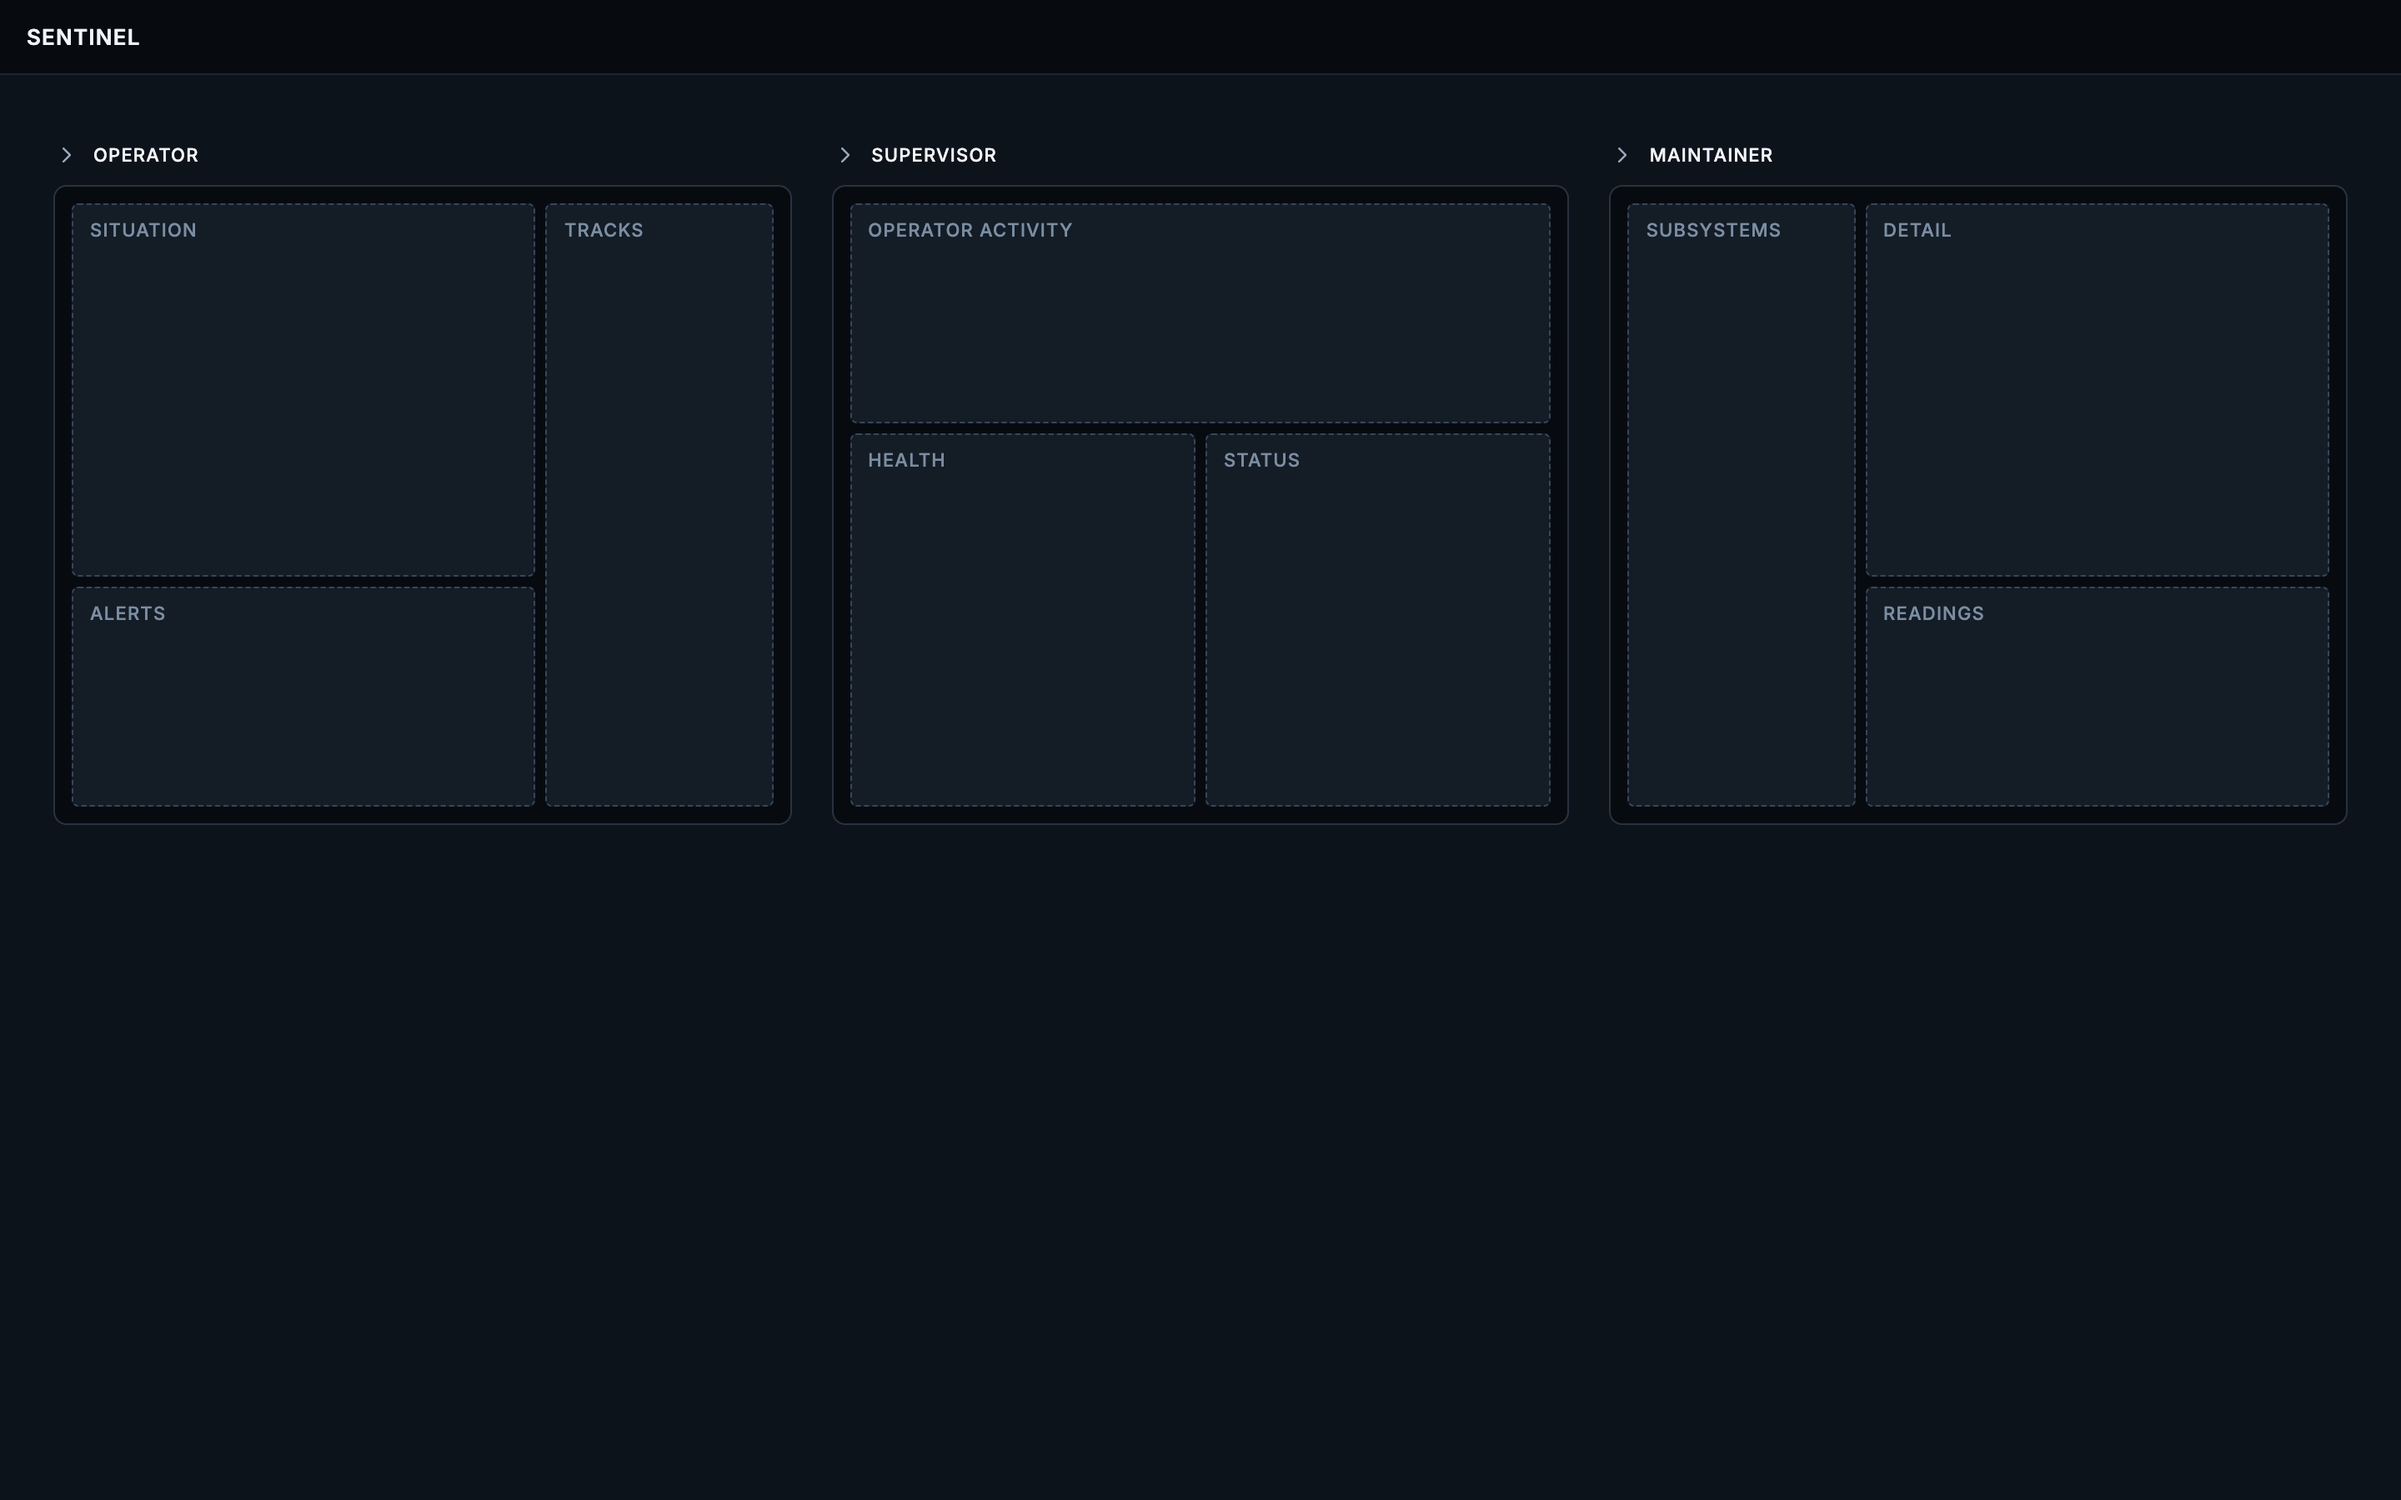
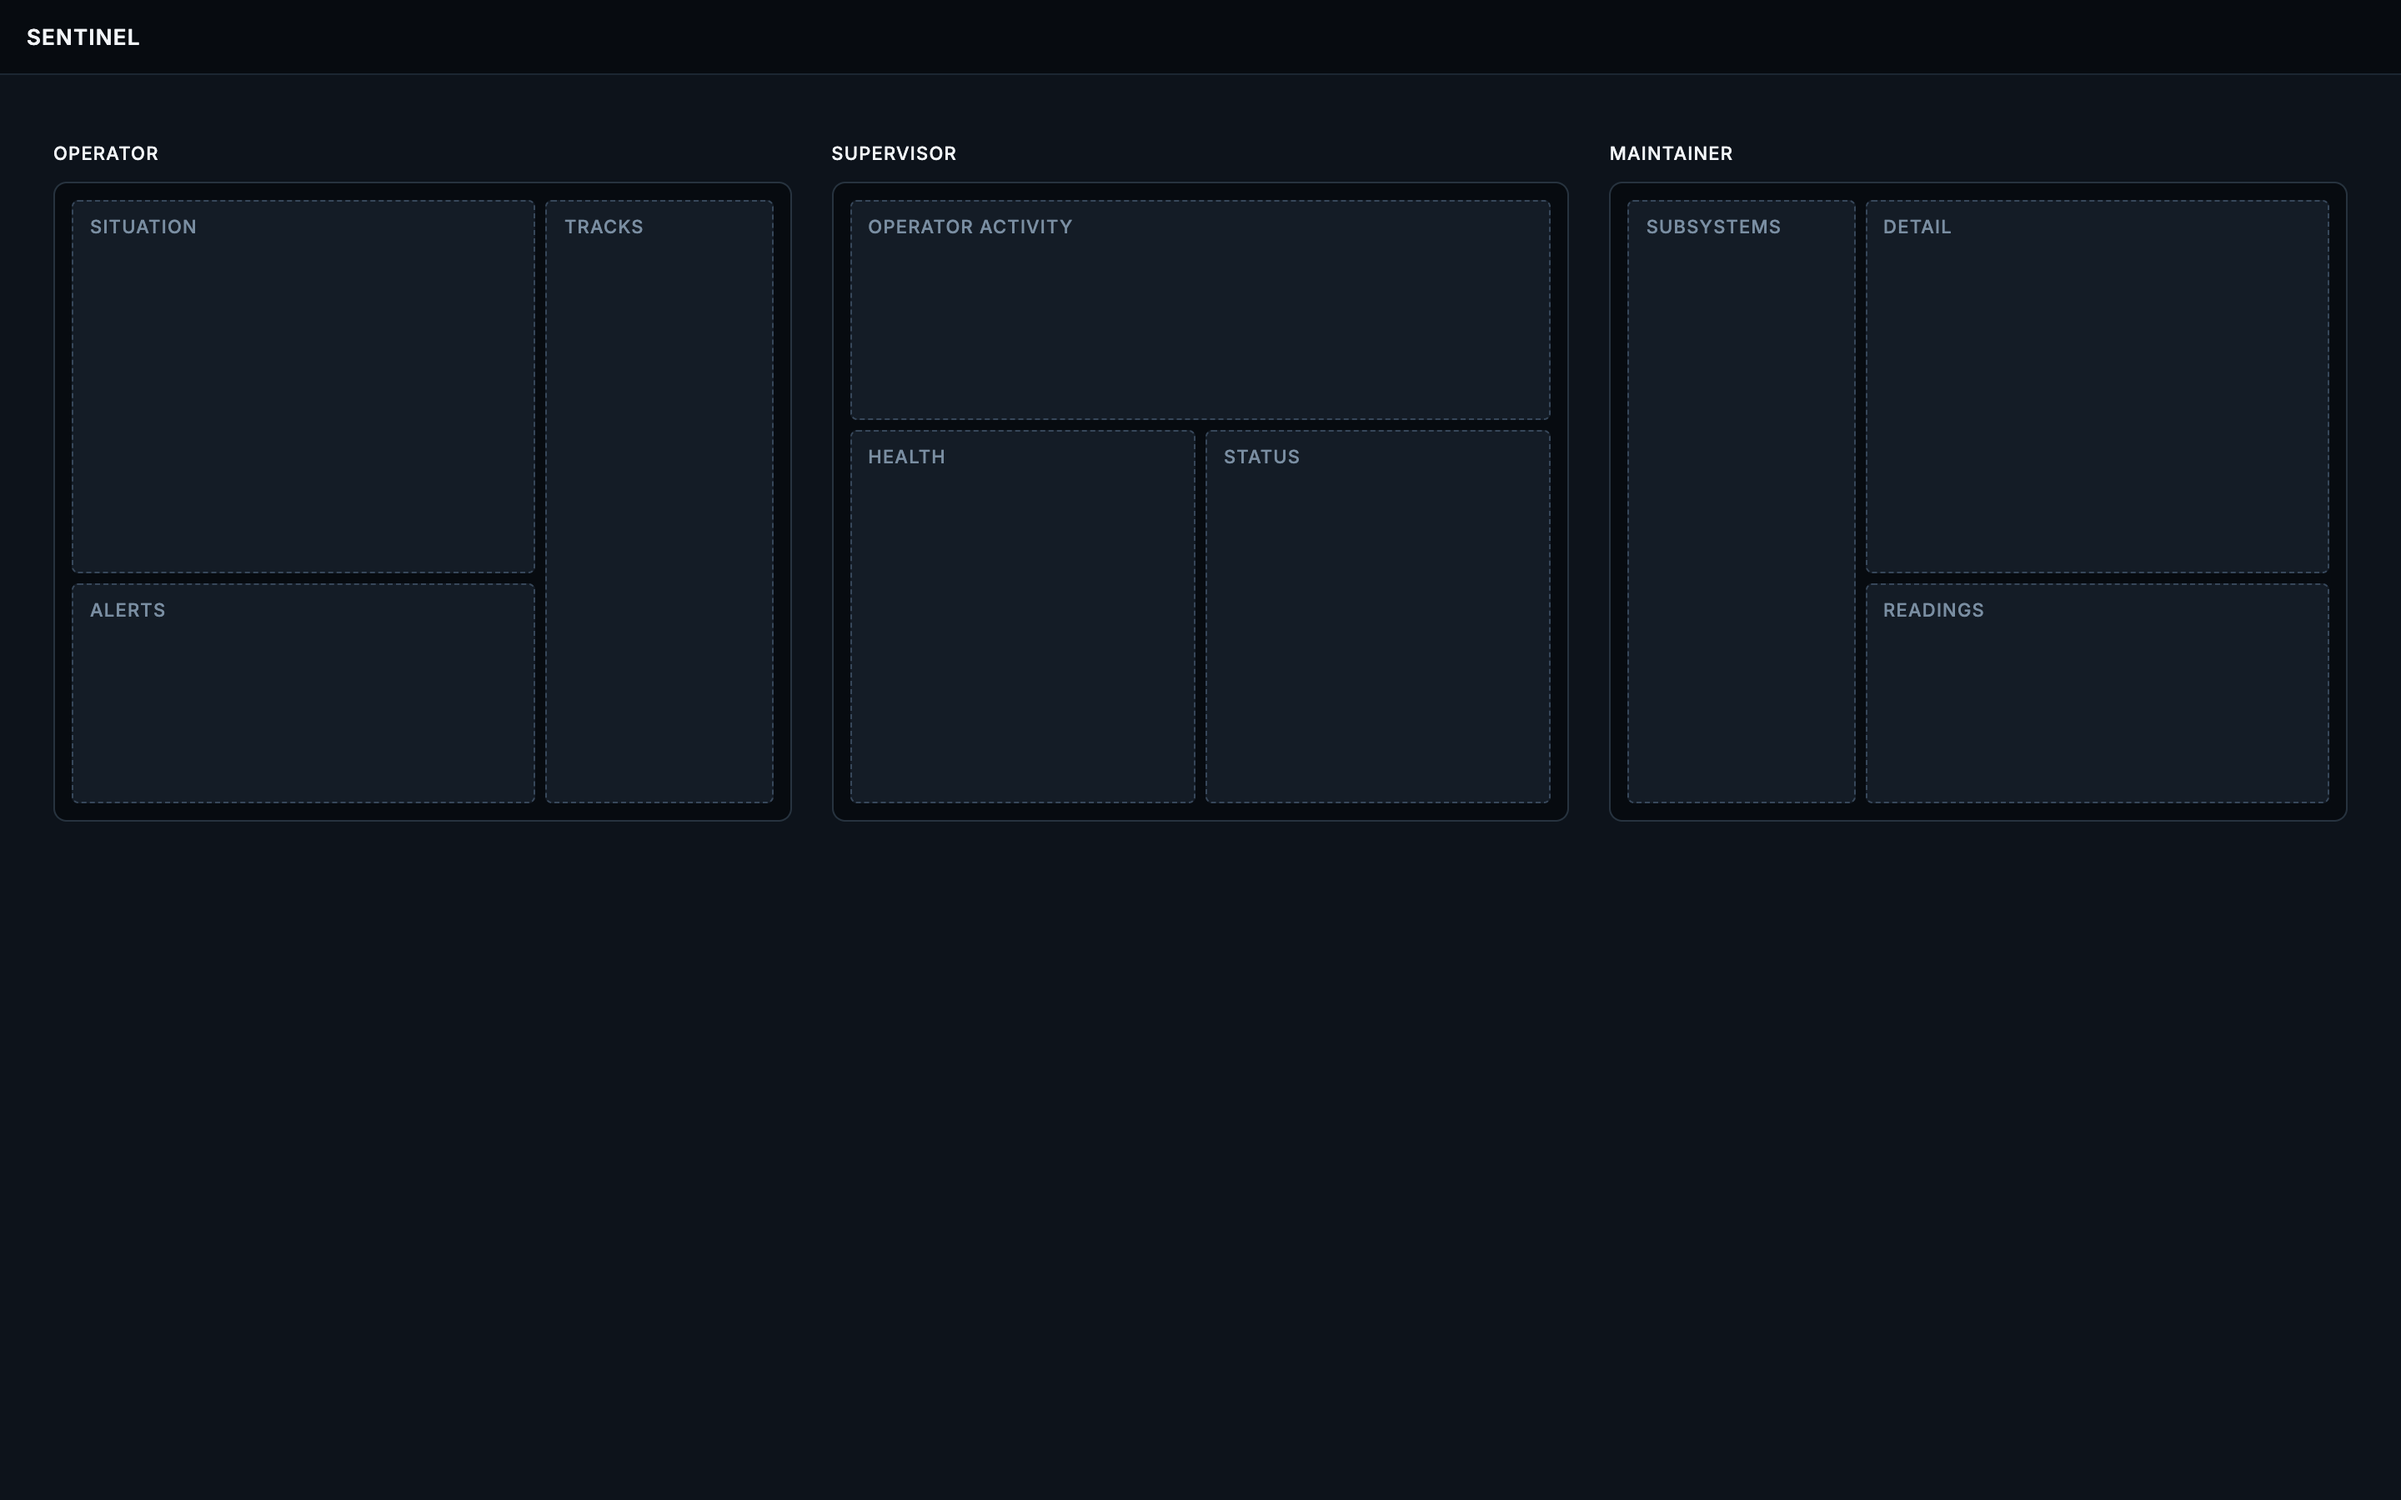
Remove chevrons from role layout figure

diff --git a/sentinel-handoff/reference/screens/Explored-RoleLogin.html b/sentinel-handoff/reference/screens/Explored-RoleLogin.html
@@ -16,15 +16,15 @@ a{color:#4cc9f0}a:hover{color:#f2f5f8}
 <main style="flex: 1; display: flex; flex-wrap: wrap; gap: 32px; align-items: flex-start; padding: 40px 32px; box-sizing: border-box;">
 <div style="flex: 1 1 0; min-width: 0; display: grid; grid-template-columns: repeat(auto-fit, minmax(240px, 1fr)); gap: 24px;">
 <section aria-label="Operator layout" style="display: flex; flex-direction: column; gap: 10px; min-width: 0;">
-<div style="display: flex; align-items: center; gap: 8px;"><svg width="16" height="16" viewBox="0 0 24 24" fill="none" stroke="#96a7b8" stroke-width="1.75" stroke-linecap="round" stroke-linejoin="round" aria-hidden="true"><path d="M9 6l6 6-6 6"></path></svg><span style="font: 500 11px/14px Inter, system-ui, -apple-system, 'Segoe UI', sans-serif; letter-spacing: 0.6px; text-transform: uppercase; color: #f2f5f8;">Operator</span></div>
+<div style="display: flex; align-items: center; gap: 8px;"><span style="font: 500 11px/14px Inter, system-ui, -apple-system, 'Segoe UI', sans-serif; letter-spacing: 0.6px; text-transform: uppercase; color: #f2f5f8;">Operator</span></div>
 <div style="display: grid; grid-template-columns: repeat(6, minmax(0, 1fr)); grid-template-rows: repeat(8, 40px); gap: 6px; padding: 10px; background: #070b10; border: 1px solid #27333f; border-radius: 8px;"><div style="grid-column: 1 / span 4; grid-row: 1 / span 5; display: flex; align-items: flex-start; padding: 8px 10px; background: #141c26; border: 1px dashed #37475a; border-radius: 4px;"><span style="font: 500 11px/14px Inter, system-ui, -apple-system, 'Segoe UI', sans-serif; letter-spacing: 0.6px; text-transform: uppercase; color: #7a8ea2;">Situation</span></div><div style="grid-column: 5 / span 2; grid-row: 1 / span 8; display: flex; align-items: flex-start; padding: 8px 10px; background: #141c26; border: 1px dashed #37475a; border-radius: 4px;"><span style="font: 500 11px/14px Inter, system-ui, -apple-system, 'Segoe UI', sans-serif; letter-spacing: 0.6px; text-transform: uppercase; color: #7a8ea2;">Tracks</span></div><div style="grid-column: 1 / span 4; grid-row: 6 / span 3; display: flex; align-items: flex-start; padding: 8px 10px; background: #141c26; border: 1px dashed #37475a; border-radius: 4px;"><span style="font: 500 11px/14px Inter, system-ui, -apple-system, 'Segoe UI', sans-serif; letter-spacing: 0.6px; text-transform: uppercase; color: #7a8ea2;">Alerts</span></div></div>
 </section>
 <section aria-label="Supervisor layout" style="display: flex; flex-direction: column; gap: 10px; min-width: 0;">
-<div style="display: flex; align-items: center; gap: 8px;"><svg width="16" height="16" viewBox="0 0 24 24" fill="none" stroke="#96a7b8" stroke-width="1.75" stroke-linecap="round" stroke-linejoin="round" aria-hidden="true"><path d="M9 6l6 6-6 6"></path></svg><span style="font: 500 11px/14px Inter, system-ui, -apple-system, 'Segoe UI', sans-serif; letter-spacing: 0.6px; text-transform: uppercase; color: #f2f5f8;">Supervisor</span></div>
+<div style="display: flex; align-items: center; gap: 8px;"><span style="font: 500 11px/14px Inter, system-ui, -apple-system, 'Segoe UI', sans-serif; letter-spacing: 0.6px; text-transform: uppercase; color: #f2f5f8;">Supervisor</span></div>
 <div style="display: grid; grid-template-columns: repeat(6, minmax(0, 1fr)); grid-template-rows: repeat(8, 40px); gap: 6px; padding: 10px; background: #070b10; border: 1px solid #27333f; border-radius: 8px;"><div style="grid-column: 1 / span 6; grid-row: 1 / span 3; display: flex; align-items: flex-start; padding: 8px 10px; background: #141c26; border: 1px dashed #37475a; border-radius: 4px;"><span style="font: 500 11px/14px Inter, system-ui, -apple-system, 'Segoe UI', sans-serif; letter-spacing: 0.6px; text-transform: uppercase; color: #7a8ea2;">Operator activity</span></div><div style="grid-column: 1 / span 3; grid-row: 4 / span 5; display: flex; align-items: flex-start; padding: 8px 10px; background: #141c26; border: 1px dashed #37475a; border-radius: 4px;"><span style="font: 500 11px/14px Inter, system-ui, -apple-system, 'Segoe UI', sans-serif; letter-spacing: 0.6px; text-transform: uppercase; color: #7a8ea2;">Health</span></div><div style="grid-column: 4 / span 3; grid-row: 4 / span 5; display: flex; align-items: flex-start; padding: 8px 10px; background: #141c26; border: 1px dashed #37475a; border-radius: 4px;"><span style="font: 500 11px/14px Inter, system-ui, -apple-system, 'Segoe UI', sans-serif; letter-spacing: 0.6px; text-transform: uppercase; color: #7a8ea2;">Status</span></div></div>
 </section>
 <section aria-label="Maintainer layout" style="display: flex; flex-direction: column; gap: 10px; min-width: 0;">
-<div style="display: flex; align-items: center; gap: 8px;"><svg width="16" height="16" viewBox="0 0 24 24" fill="none" stroke="#96a7b8" stroke-width="1.75" stroke-linecap="round" stroke-linejoin="round" aria-hidden="true"><path d="M9 6l6 6-6 6"></path></svg><span style="font: 500 11px/14px Inter, system-ui, -apple-system, 'Segoe UI', sans-serif; letter-spacing: 0.6px; text-transform: uppercase; color: #f2f5f8;">Maintainer</span></div>
+<div style="display: flex; align-items: center; gap: 8px;"><span style="font: 500 11px/14px Inter, system-ui, -apple-system, 'Segoe UI', sans-serif; letter-spacing: 0.6px; text-transform: uppercase; color: #f2f5f8;">Maintainer</span></div>
 <div style="display: grid; grid-template-columns: repeat(6, minmax(0, 1fr)); grid-template-rows: repeat(8, 40px); gap: 6px; padding: 10px; background: #070b10; border: 1px solid #27333f; border-radius: 8px;"><div style="grid-column: 1 / span 2; grid-row: 1 / span 8; display: flex; align-items: flex-start; padding: 8px 10px; background: #141c26; border: 1px dashed #37475a; border-radius: 4px;"><span style="font: 500 11px/14px Inter, system-ui, -apple-system, 'Segoe UI', sans-serif; letter-spacing: 0.6px; text-transform: uppercase; color: #7a8ea2;">Subsystems</span></div><div style="grid-column: 3 / span 4; grid-row: 1 / span 5; display: flex; align-items: flex-start; padding: 8px 10px; background: #141c26; border: 1px dashed #37475a; border-radius: 4px;"><span style="font: 500 11px/14px Inter, system-ui, -apple-system, 'Segoe UI', sans-serif; letter-spacing: 0.6px; text-transform: uppercase; color: #7a8ea2;">Detail</span></div><div style="grid-column: 3 / span 4; grid-row: 6 / span 3; display: flex; align-items: flex-start; padding: 8px 10px; background: #141c26; border: 1px dashed #37475a; border-radius: 4px;"><span style="font: 500 11px/14px Inter, system-ui, -apple-system, 'Segoe UI', sans-serif; letter-spacing: 0.6px; text-transform: uppercase; color: #7a8ea2;">Readings</span></div></div>
 </section>
 </div>
